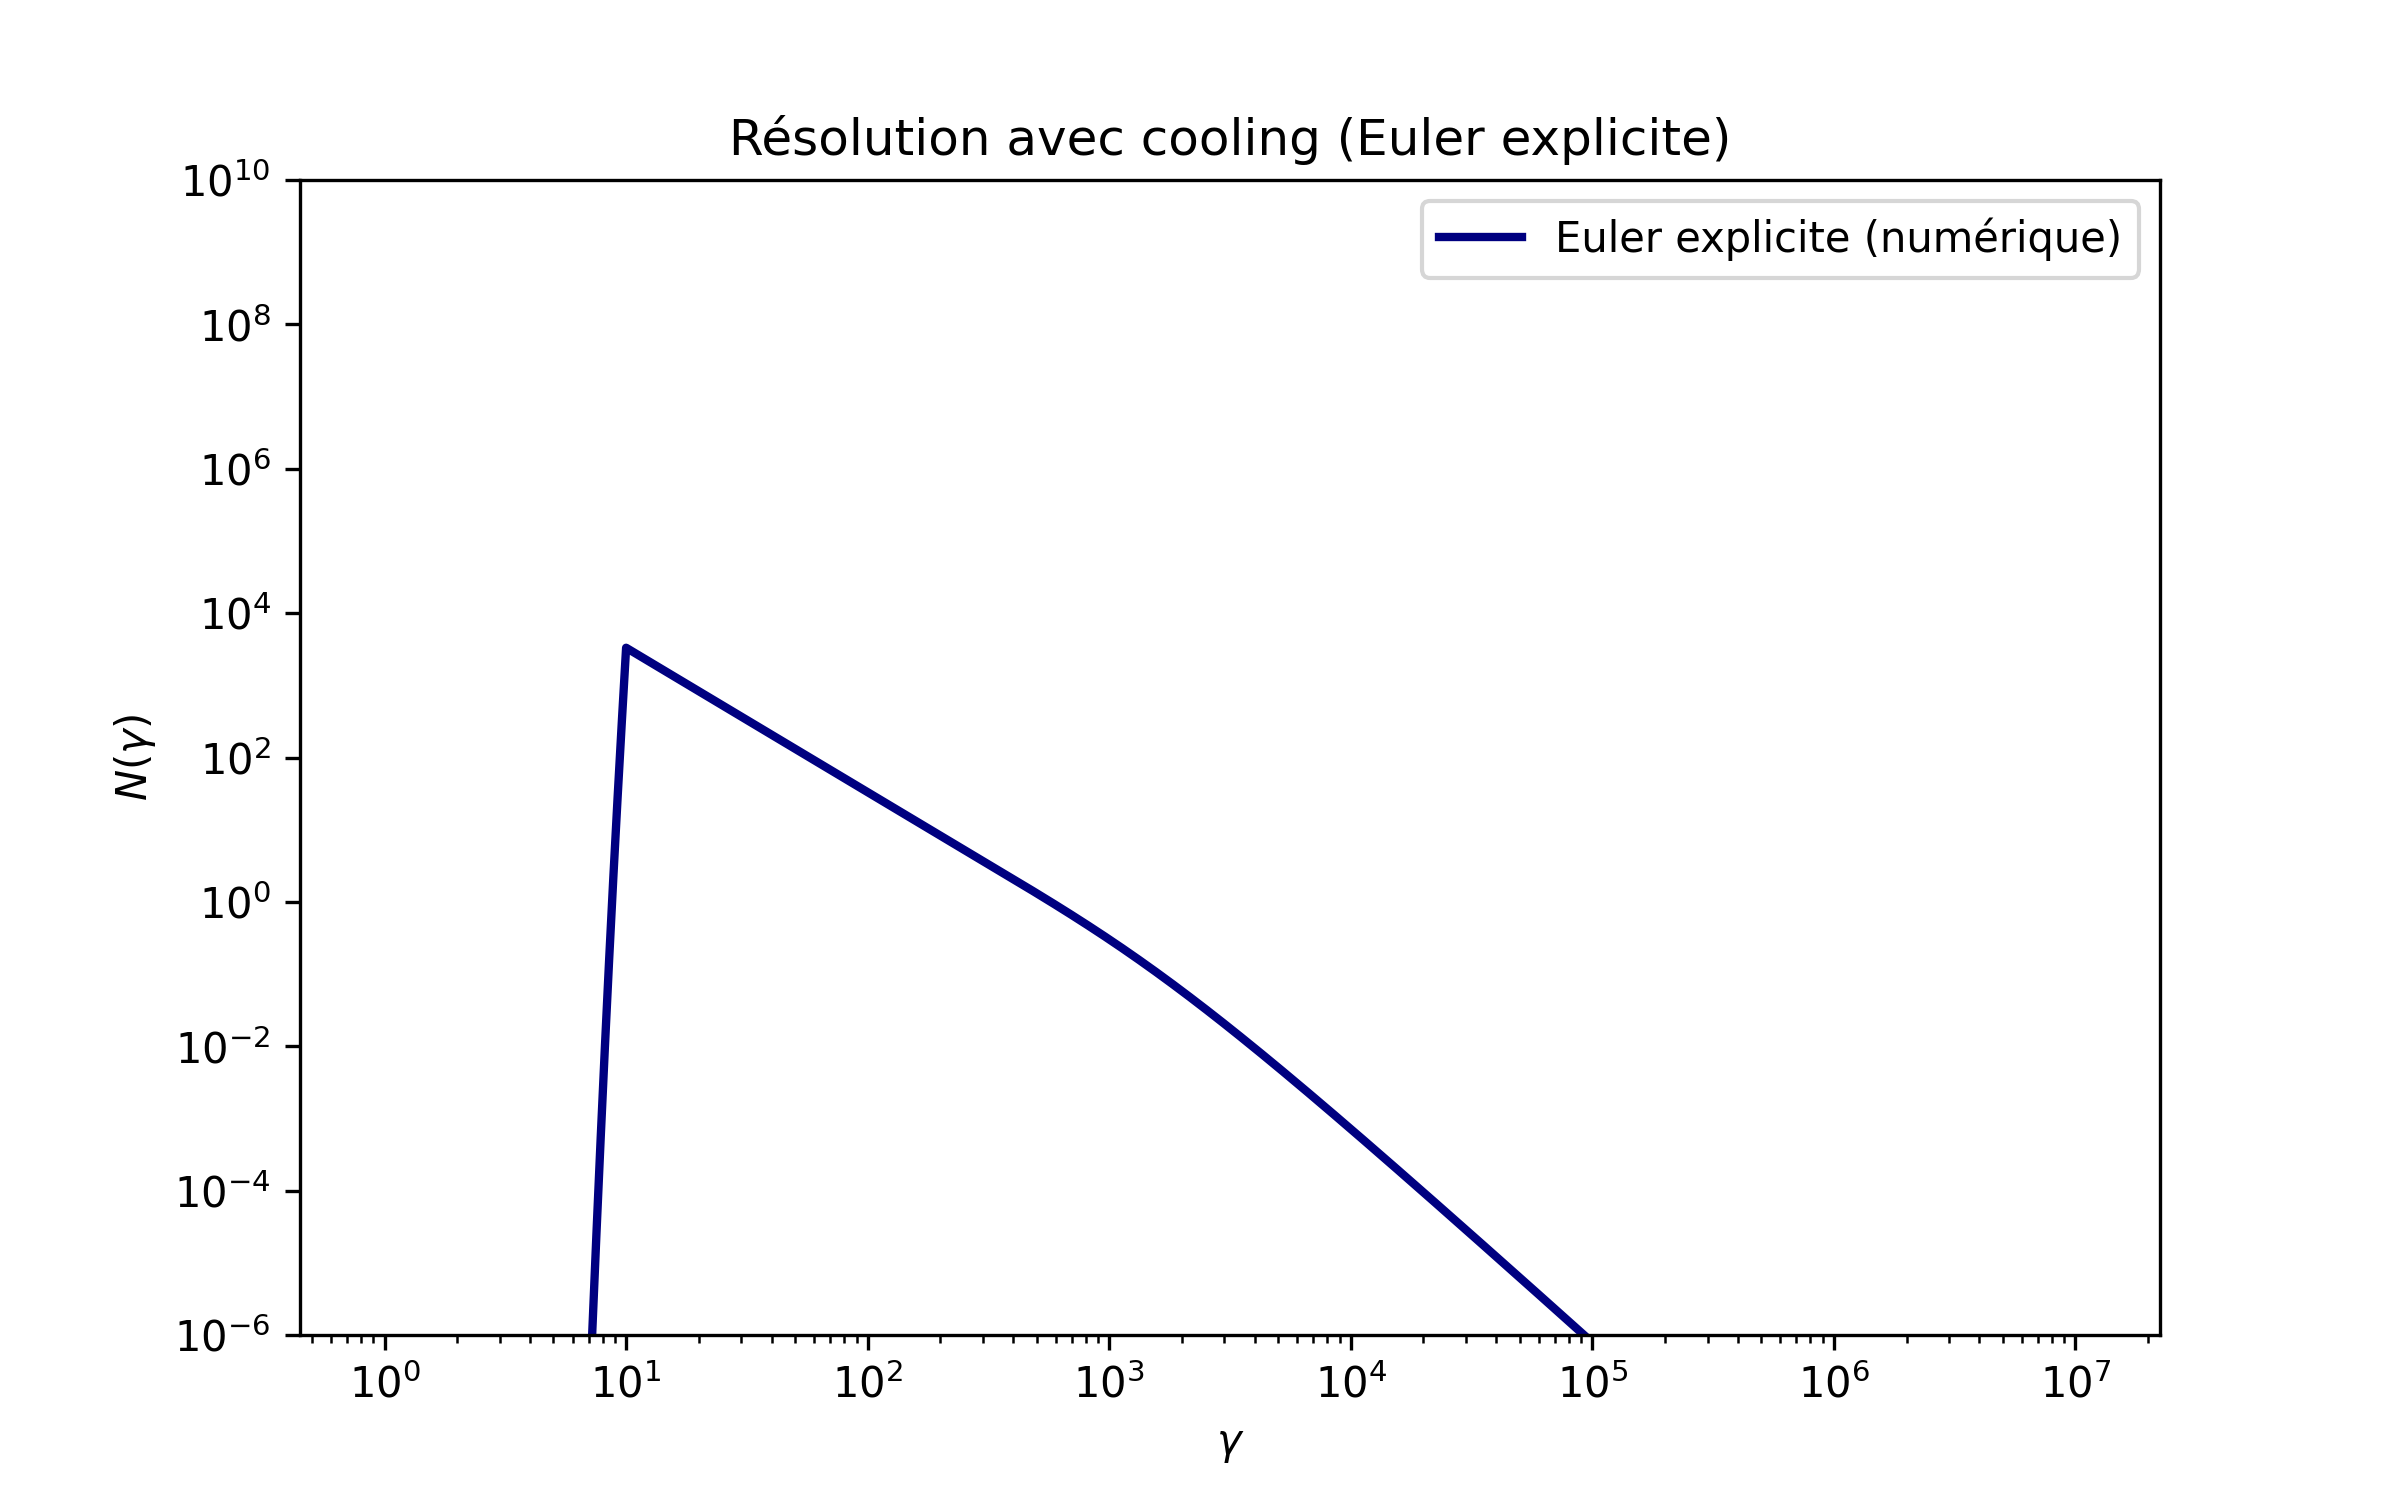
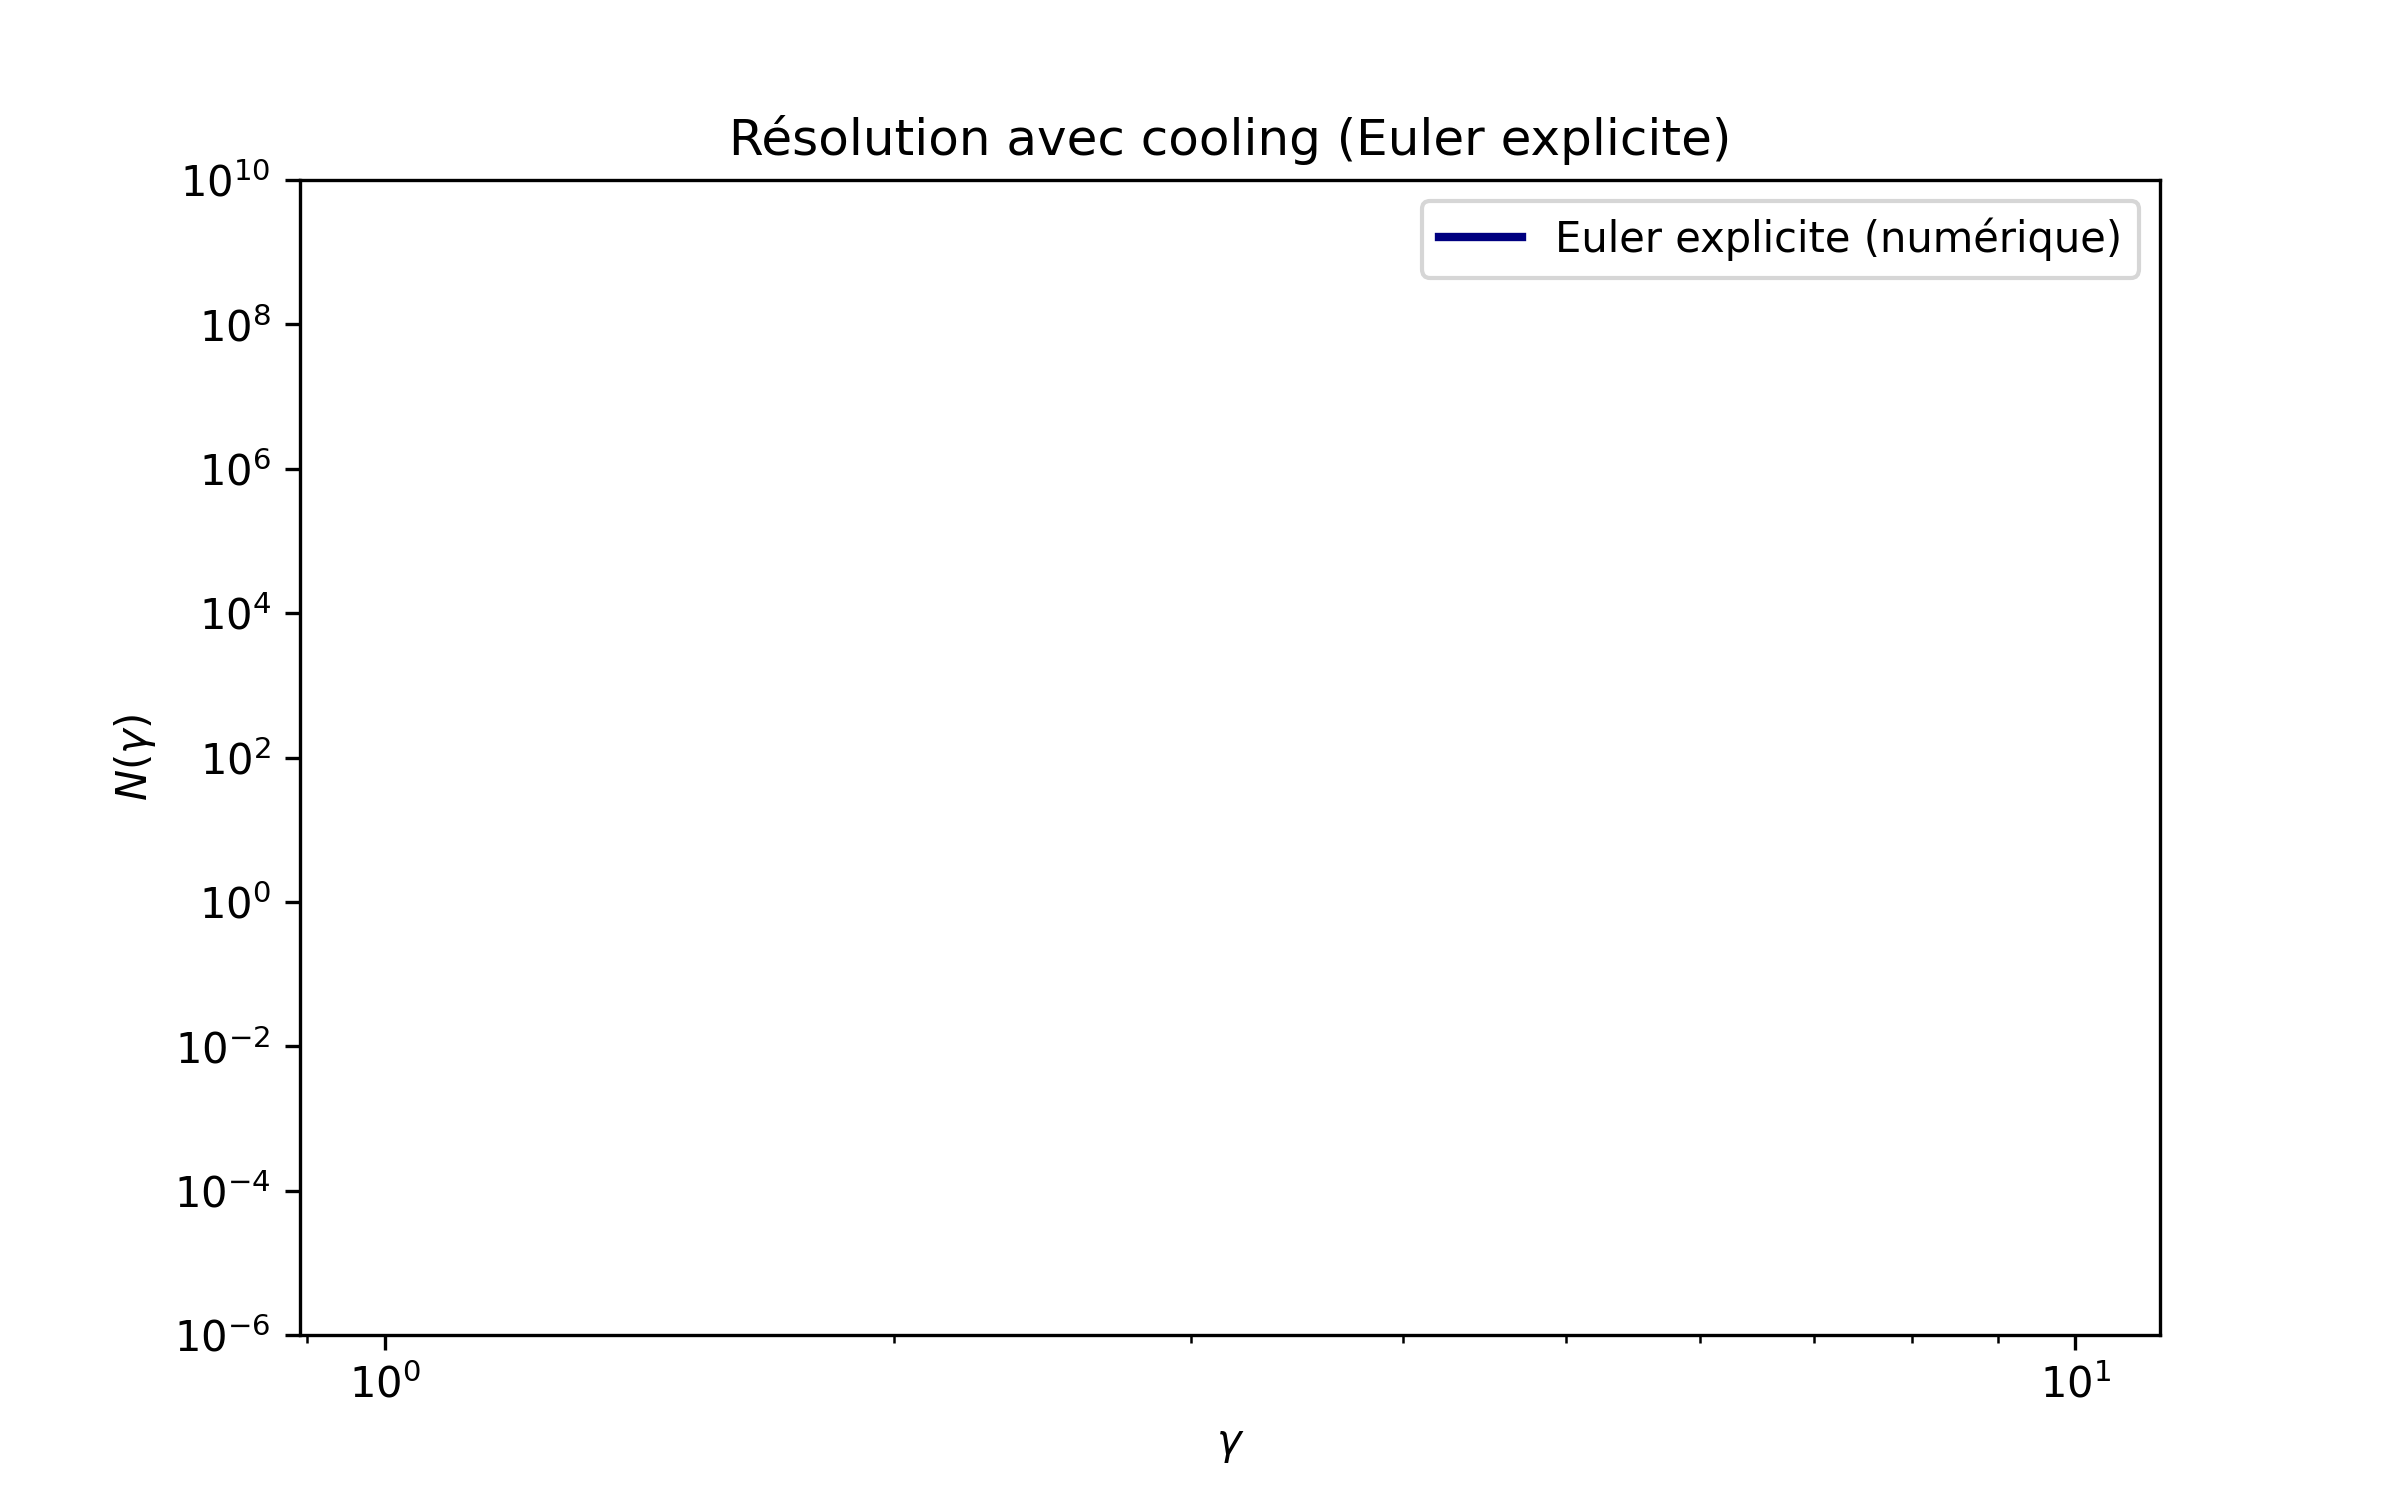
modification du pas de temps dt pour que ce soit plus réaliste physiquement

diff --git a/src/res_num_Euler_explicite.py b/src/res_num_Euler_explicite.py
@@ -17,10 +17,9 @@ Q = Q_0 * (gamma**(-s))
 Q[(gamma < gamma_min) | (gamma > gamma_max)] = 0.0
 
 #dt = 0.05 * T_ad          # Pas de temps (s)
-dt = 1.67       # Pas de temps (s)      
-print('le pas de temps est :', dt, 's')
+#dt = 1.67       # Pas de temps (s)      
 t_max = 5.0 * T_ad        # Temps de simulation total (s)
-n_steps = int(t_max / dt)
+
 
 '''
 verification de la condition CFL pour le pas de temps
@@ -28,12 +27,16 @@ On doit avoir dt < min(dgamma / |gamma_dot|)
     pour la stabilité de l'intégration
 
 '''
-dgamma = np.diff(gamma)               # Écart Δγ entre chaque point
-gamma_loss = K * gamma[:-1]**2        # |γ_dot| sur la grille (sans le dernier point)
-
+dgamma = np.diff(gamma)            
+gamma_loss = K * gamma[:-1]**2       
 dt_cfl_array = dgamma / gamma_loss
 dt_cfl_max = np.min(dt_cfl_array)
 print('le pas de temps CFL est :', dt_cfl_max, 's')
+
+safety_factor = 0.5
+dt = safety_factor * dt_cfl_max
+print('le pas de temps est :', dt, 's')
+n_steps = int(t_max / dt)
 
 if dt >= dt_cfl_max:
     print("WARNING : le pas de temps dt dépasse la limite CFL pour la stabilité.")
